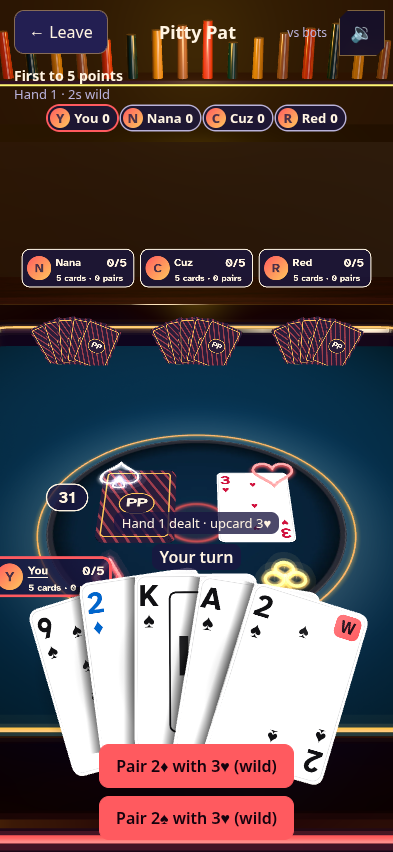
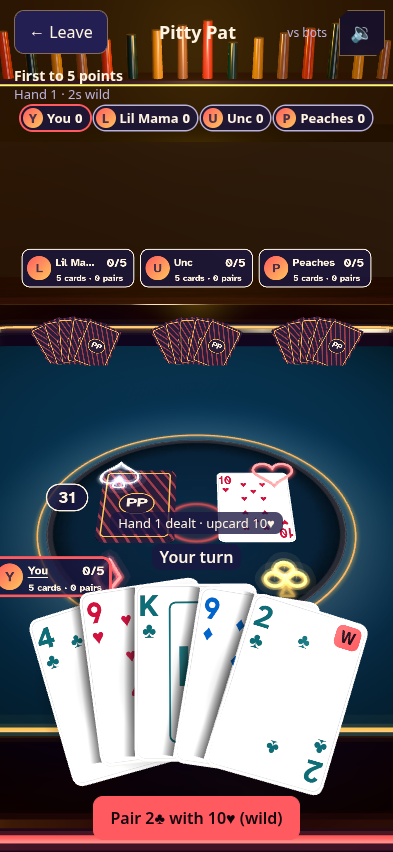
V10g-3: portrait fan always clears the action row (no tap area under a button); e2e taps the visible strip, retries brief overlays, reports covered cards; shots report untappable/actsTop

diff --git a/apps/web/test/mode-play.e2e.ts b/apps/web/test/mode-play.e2e.ts
@@ -48,21 +48,22 @@ async function newPage(b: Browser): Promise<Page> {
 
 /** V10g-3: in the 3D held fan a card's centre is under its right-hand neighbour, so tap the card where it is actually
  *  visible (the first point inside its box whose hit-test lands on it), like a finger on the exposed strip. */
-async function tapVisible(p: Page, card: Locator): Promise<void> {
+async function tapVisible(p: Page, card: Locator): Promise<boolean> {
   const pt = await card.evaluate((el) => {
     const r = el.getBoundingClientRect();
-    for (let fy = 0.25; fy <= 0.85; fy += 0.15) for (let fx = 0.1; fx <= 0.9; fx += 0.1) {
+    for (let fy = 0.1; fy <= 0.9; fy += 0.1) for (let fx = 0.04; fx <= 0.96; fx += 0.04) {
       const x = r.left + r.width * fx, y = r.top + r.height * fy, hit = document.elementFromPoint(x, y);
       if (hit && (hit === el || el.contains(hit))) return { x, y };
     }
     return null;
-  });
-  if (pt) await p.mouse.click(pt.x, pt.y); else await card.click();
+  }, undefined, { timeout: 2000 }).catch(() => null);
+  if (pt) { await p.mouse.click(pt.x, pt.y); return true; }
+  return false;
 }
 
 /** Tap a legal card whenever it is this page's turn, until the recap shows. */
 async function playToRecap(pages: Page[], shotMid?: string, onTick?: (p: Page) => Promise<void>): Promise<void> {
-  let shot = false;
+  let shot = false, misses = 0;
   for (let i = 0; i < 9000; i++) {
     for (const p of pages) {
       if (await p.getByTestId('mode-recap').isVisible().catch(() => false)) continue;
@@ -70,7 +71,17 @@ async function playToRecap(pages: Page[], shotMid?: string, onTick?: (p: Page) =
       if (onTick) await onTick(p);
       if (await card.isVisible().catch(() => false)) {
         if (shotMid && !shot) { shot = true; await p.screenshot({ path: `${shots}/${shotMid}` }); }
-        await tapVisible(p, card);
+        // the first legal card may be fully covered (e.g. by a lifted neighbour): tap any legal card that shows
+        const all = p.locator('.pcard-btn:not([disabled]), .pp-move:not([disabled])');
+        let tapped = false;
+        for (let k = 0, n = await all.count(); k < n && !tapped; k++) tapped = await tapVisible(p, all.nth(k));
+        // a deal / hand-result beat can briefly cover the table: retry, but a legal card that stays covered is a real bug
+        misses = tapped ? 0 : misses + 1;
+        if (misses > 40) {
+          const why = await p.evaluate(() => [...document.querySelectorAll('.pcard-btn:not([disabled]), .pp-move:not([disabled])')].map((el) => { const r = el.getBoundingClientRect(); const h = document.elementFromPoint(r.left + r.width / 2, r.top + r.height / 2); return `${el.getAttribute('data-testid') ?? el.textContent} @${Math.round(r.left)},${Math.round(r.top)} ${Math.round(r.width)}x${Math.round(r.height)} under ${h?.className ?? h?.tagName}`; }).join(' | '));
+          await p.screenshot({ path: '/tmp/v10g-untappable.png' });
+          throw new Error(`no legal card or move is visible to tap for 6 s: ${why}`);
+        }
       }
     }
     const done = await Promise.all(pages.map((p) => p.getByTestId('mode-recap').isVisible().catch(() => false)));

diff --git a/apps/web/src/three3d/HandFan.tsx b/apps/web/src/three3d/HandFan.tsx
@@ -45,8 +45,9 @@ export function solveFan(n: number, W: number, H: number, vw: number, vh: number
     const roll = -0.66 * a;
     out.push({ x, y, roll, cx: (x / vw + 0.5) * W, cy: (0.5 - y / vh) * H, w: cw / pxw, h: ch / pxw, deg: (-roll * 180) / Math.PI });
   }
-  // keep every rolled card's lowest corner on screen (Tonk portrait: the outer cards of a 5+ fan hung past the bottom edge)
-  const margin = 10;
+  // keep every rolled card's lowest corner on screen AND above the portrait action row (`rise` px), so no tap area sits
+  // under a button (Tonk portrait: the outer cards of a 5+ fan hung past the bottom edge / under Draw-Take-Drop)
+  const margin = Math.max(10, rise);
   const low = Math.max(...out.map((p) => p.cy + (p.h / 2) * Math.cos(p.roll) + (p.w / 2) * Math.abs(Math.sin(p.roll))));
   const up = low - (H - margin);
   if (up > 0) for (const p of out) { p.cy -= up; p.y += up * pxw; }
@@ -98,8 +99,7 @@ export function HandFan({ cards, u, onDrawn, root }: { cards: MirrorCard[]; u: T
     const vh = 2 * D * Math.tan((cam.fov * Math.PI) / 360), vw = vh * (size.width / size.height);
     // portrait: lift the fan clear of the (fixed, bottom) action row
     const acts = root?.querySelector<HTMLElement>('.pp-actions');
-    // capped: a tall offer column (Pitty Pat wild pairs) must not hoist the fan over the table and seat plate
-    const rise = portrait ? Math.min(0.22 * size.height, Math.max(0.075 * size.height, (acts?.getBoundingClientRect().height ?? 0) + 20)) : 0;
+    const rise = portrait ? Math.max(0.075 * size.height, (acts?.getBoundingClientRect().height ?? 0) + 20) : 0;
     const poses = solveFan(cards.length, size.width, size.height, vw, vh, rise, (i) => { const s = hash(cards[i]!.key); return [rnd(s, 1), rnd(s, 2) * 0.032, rnd(s, 3) * 0.032]; });
 
     const m = maskTex();

diff --git a/apps/web/test/hand3d.test.ts b/apps/web/test/hand3d.test.ts
@@ -32,12 +32,12 @@ describe('fan', () => {
     // every card's tap target is the full card (≥ 60 px wide), and neighbours' visible strips stay ≥ 44 px apart at the centres
     for (let i = 1; i < 5; i++) { expect(p[i]!.w).toBeGreaterThanOrEqual(60); expect(Math.hypot(p[i]!.cx - p[i - 1]!.cx, p[i]!.cy - p[i - 1]!.cy)).toBeGreaterThanOrEqual(44); }
   });
-  it('Tonk portrait: no card of a 5–7 fan hangs past the bottom edge (rolled corners included)', () => {
+  it('Tonk portrait: no card of a 5–7 fan hangs past the bottom edge or into the action row (rolled corners included)', () => {
     for (const [W, H] of [[393, 852], [375, 667], [390, 844], [430, 932]] as const) for (const n of [5, 6, 7]) for (const rise of [0, 64, 140]) {
       const vh = 1, vw = vh * W / H;
       const p = solveFan(n, W, H, vw, vh, rise, () => [1, 0.032, -0.032]);
       const low = Math.max(...p.map((c) => c.cy + (c.h / 2) * Math.cos(c.roll) + (c.w / 2) * Math.abs(Math.sin(c.roll))));
-      expect(low).toBeLessThanOrEqual(H - 9.99);
+      expect(low).toBeLessThanOrEqual(H - Math.max(10, rise) + 0.01);
     }
   });
 });
